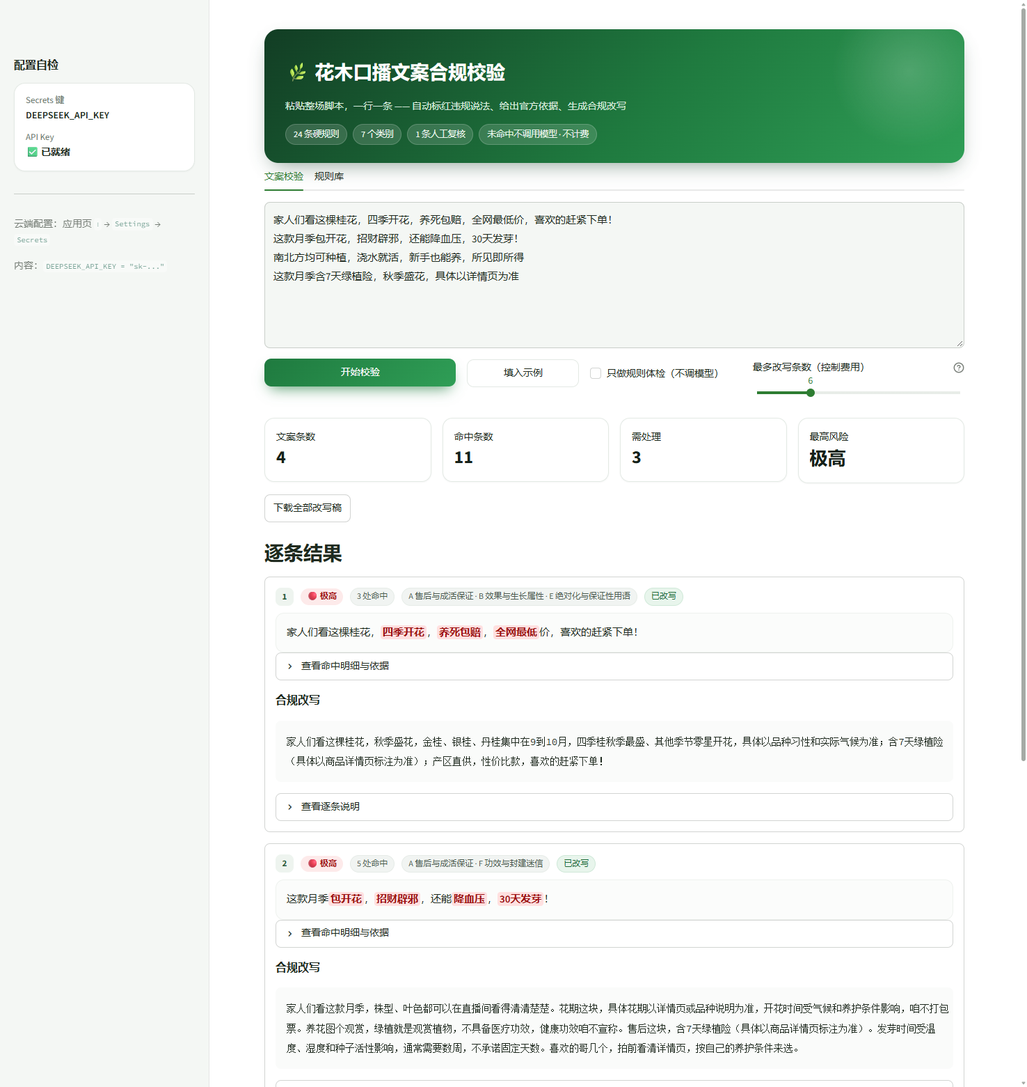
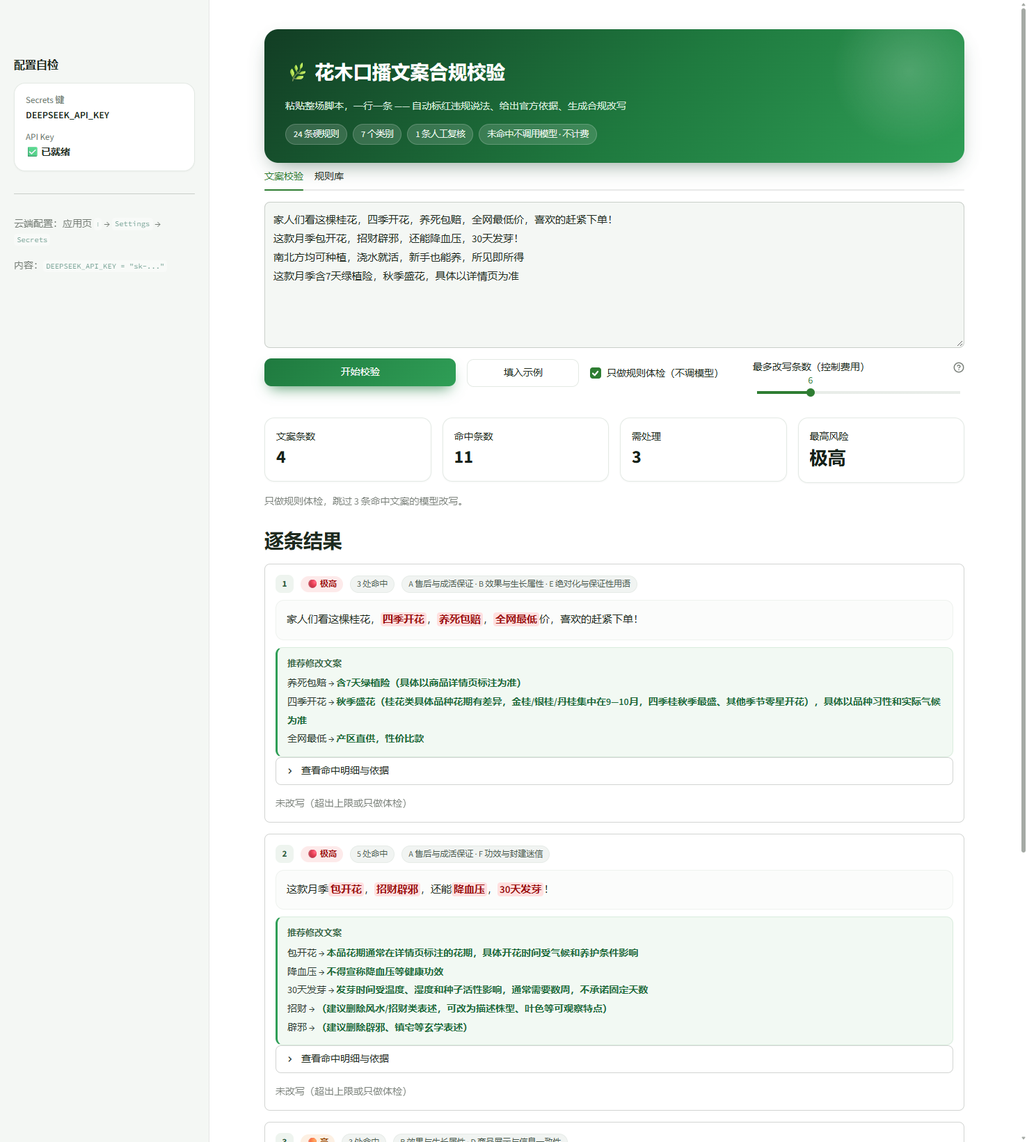
每条命中增加推荐修改文案（按替换表生成，含占位符填充）

diff --git a/docs/checker.html b/docs/checker.html
@@ -74,7 +74,7 @@
 </div>
 
 <script>
-const DATA = {"rules": [{"id": "R001", "category": "A", "pattern": "养死\\s*(包赔|包退|包活|补发|包开花|包结果|包发芽|包生根)", "risk": "极高", "reason": "平台仅认可“7天绿植险”权益，口播须与商品详情页明确标注的权益一致。宣传“养死包赔/包退/补发”但详情页未标注或超过7天的，属服务履约虚假。已有店铺被清退、扣除违约金20000元、冻结近90天货款的公示案例。", "source": "抖音《关于鲜花绿植商品服务虚假的专项治理公告》2026-09-02"}, {"id": "R002", "category": "A", "pattern": "冻坏\\s*(不赔|不售后|不负责|不管)", "risk": "极高", "reason": "合规指南明确严禁宣传“冻坏不赔/不售后”。低温地区应主动增加保温棉发货，不得以“不拍保温棉冻坏不赔”作为售后免责依据。", "source": "抖音电商鲜花绿植行业合规指南 2026-01-28"}, {"id": "R003", "category": "A", "pattern": "包\\s*(活|成活|全活|发芽|出苗|开花|结果|生根|挂果)", "risk": "极高", "reason": "直播间对出苗率、发芽率、成活率、包开花、包活等做保证性承诺，属于对活体商品做无法量化的绝对化保证，是鲜花园艺类目最高频的违规类型之一。", "source": "抖音《关于鲜花绿植宣传与经营规范专项治理公告》2026-04-30 / 鲜花园艺直播红黑榜"}, {"id": "R004", "category": "A", "pattern": "\\d+\\s*(天|个月|周|星期).{0,6}(发芽|开花|结果|成活|死|枯萎|见效|挂果|生根)", "risk": "高", "reason": "宣传“X天发芽”“X天开花”“30天包活”等具体时间承诺，属于对种植结果做不可验证的保证性断言。植物生长受气候、土壤、养护影响，无法在售卖时对固定天数做承诺。", "source": "抖音专项治理公告 2026-04-30 / 绿植鲜花违禁词速查"}, {"id": "R005", "category": "B", "pattern": "(四季|全年|三季)\\s*(开花|挂果|常绿|有花|有果|开花不断)", "risk": "高", "reason": "花期/挂果周期必须与品种真实习性一致。玉兰实际一季开花，宣传“四季开花”即构成效果虚假。桂花中仅四季桂可“秋季最盛、其他季节零星开花”，金桂/银桂/丹桂花期集中在秋季9—10月。月季宣传“全年320天开花”也被官方规范明确列为夸大植物习性。", "source": "抖音专项治理公告 2026-04-30（效果虚假）/ 抖音电商农资绿植行业管理规范"}, {"id": "R006", "category": "B", "pattern": "(浇水就活|沾土就活|放养就能活|怎么养都死不了|不用管就能活|随便养都活|随便种都能活)", "risk": "高", "reason": "种植难度必须如实告知。大棚苗、嫁接苗仍需基本养护，宣传“浇水就活”属于对种植难易程度的虚假描述，官方要求“如实宣传种植养护难度，对死亡风险、养殖环境做好充分提示”。", "source": "抖音专项治理公告 2026-04-30（效果虚假—虚假宣传种植难度）"}, {"id": "R007", "category": "B", "pattern": "(南北方均可种植|全国可种植|哪里都能种|到处都能种|全国可种|南北方均可种)", "risk": "高", "reason": "部分花木品种受温度、土壤条件限制，并非所有地区都适宜。抖音公告明确禁止以“全国可种植”“南北方均可种植”等保证性、暗示性宣传夸大实际情况。", "source": "抖音专项治理公告 2026-04-30（品种产地虚假—虚假宣传可种植地区）"}, {"id": "R008", "category": "B", "pattern": "(永不凋谢|花期最长|全年开花不断|花开不断|一直开花|永不枯萎)", "risk": "中", "reason": "“永不凋谢”“花期最长”属于无法验证的极致化表述，鲜花园艺直播红黑榜将其列为“绝对化/夸大”高危话术。鲜切花和活体植物的花期均有自然极限。", "source": "鲜花园艺直播红黑榜 2026-06-20"}, {"id": "R009", "category": "C", "pattern": "(五彩月季|红粉蓝莓|中国红玉兰|郁金香玉兰|牡丹玉兰|七彩(月季|玫瑰|茶花|杜鹃|草莓)|纯蓝色(玫瑰|火龙果)|蓝色(火龙果|西瓜)|绿色(草莓|玫瑰)|蓝桂苗)", "risk": "极高", "reason": "上述品种均为抖音公告中明确列出的“不存在的虚构品种”案例。平台禁止虚构自然界不存在的物种或品种，要求准确宣传苗木的标准官方品种名。使用AI生成或自行编造的品种名，同样属于虚构品种。", "source": "抖音专项治理公告 2026-04-30（品种产地虚假—虚构品种）/ 2026-09-02 / 鲜花园艺行业禁售商品细则"}, {"id": "R010", "category": "C", "pattern": "(进口品种|进口苗木|原装进口|国外原种|进口原种)", "risk": "中", "reason": "宣称“进口品种/进口苗木”属于需要提供真实来源证明的资质类表述。无实际进口凭证却宣传进口，构成对品种来源的虚假描述。", "source": "鲜花园艺直播红黑榜 2026-06-20"}, {"id": "R011", "category": "C", "pattern": "(扦插|嫁接).{0,20}(种子|播种)|(种子|播种).{0,20}(扦插|嫁接)", "risk": "高", "reason": "部分物种依靠扦插/嫁接繁殖，宣传以通过种子播种种植，需如实宣传植物繁育方式，不胡乱宣传、刻意隐瞒。", "source": "抖音专项治理公告 2026-04-30（品种产地虚假）"}, {"id": "R012", "category": "C", "pattern": "(自花授粉|无需授粉|单株结果).{0,20}(无需|不用|不需要).{0,10}(授粉|配树)|(异花授粉).{0,20}(自花授粉|单株结果)", "risk": "高", "reason": "部分品种授粉方式是异花授粉，虚假宣传为自花授粉，导致消费者单株种植后无法正常结果。", "source": "抖音专项治理公告 2026-04-30（品种产地虚假）"}, {"id": "R013", "category": "D", "pattern": "(主图|详情页|讲解|展示).{0,20}(成熟|长成|成品).{0,10}(树|苗|株)|(成熟株|成熟苗).{0,10}(替代|代替).{0,10}(发货|种苗)", "risk": "高", "reason": "商品主图/详情页展示为成熟树苗，但实际发货为种苗；直播和视频讲解仅可讲解实际发货种苗，避免用成熟苗情讲解。", "source": "抖音专项治理公告 2026-04-30（商品信息不规范）"}, {"id": "R014", "category": "D", "pattern": "(AI|P图|合成|修图).{0,20}(果实密度|枝叶|开花|果实|花苞)|(不符合|超出).{0,10}(物种|品种).{0,10}(生长规律|特性|实际)", "risk": "高", "reason": "禁止使用AI技术/P图制作不符合物种本身生长规律的果实密度/枝叶宣传，可能产生引人误解的营销推广行为。AI生成内容需与实际商品信息一致，并进行人工确认。", "source": "抖音《关于鲜花绿植宣传与经营规范专项治理公告》2026-04-30"}, {"id": "R015", "category": "D", "pattern": "(胶水|铁丝|绑|固定|拼接|插).{0,10}(果子|花朵|花苞|果实)", "risk": "高", "reason": "通过用胶水铁丝绑果子等仿真样品方式，虚构植物真实形态，拉高用户预期。", "source": "抖音专项治理公告 2026-04-30（商品信息不规范）"}, {"id": "R016", "category": "D", "pattern": "(苗数|花剑|花朵开放|发货苗情|植株数量).{0,10}(不一致|不符|差异|夸大|虚标)", "risk": "高", "reason": "鲜花绿植植株苗数、花剑数量、花朵开放状态、发货苗情与商品详情描述存在明显差异，属于虚假夸大商品。", "source": "抖音《关于鲜花绿植商品宣传不符专项治理公告》2026-09-01"}, {"id": "R018", "category": "D", "pattern": "(遇水开花|AI.{0,10}开花|图片.{0,10}开花).{0,20}(实际|发货|收到).{0,10}(树枝|干枝|不开花|难开花)", "risk": "高", "reason": "使用AI技术制作精美的开花图片宣传“遇水开花”，实际发货的是树枝，消费者养护多日也难以开花，涉嫌虚假宣传。", "source": "抖音专项治理公告 2026-04-30（商品信息不规范）"}, {"id": "R019", "category": "D", "pattern": "(非专拍|非一物一拍).{0,10}(一物一拍|专属|定制)|(一物一拍|定制专属|专属商品).{0,20}(手机尾号|填写|指定)", "risk": "高", "reason": "带货非专拍、非一物一拍商品，通过填写用户手机尾号等形式宣称商品为“定制专属商品”，虚构一物一拍误导用户。", "source": "抖音专项治理公告 2026-04-30（商品信息不规范）"}, {"id": "R020", "category": "D", "pattern": "(所见即所得|收到和直播间一模一样|实物与展示完全一致|完全一样|零差异)", "risk": "中", "reason": "非专拍、非一物一拍形式带货鲜花绿植，使用“实物与展示完全一致”“收到和直播间一模一样”“所见即所得”等承诺保证类宣传，易误导消费者心理预期。", "source": "绿植鲜花违禁词速查 2026-04-21 / 抖音鲜花园艺宣传规范"}, {"id": "R021", "category": "E", "pattern": "(全网最低|史上最低|最便宜|最低价|最好|最佳|最优|最强|第一|顶级|唯一|独家|首选|绝对|百分百|100%|保证)", "risk": "高", "reason": "绝对化用语在花木类目已有真实处罚。商家无法提供同期、同规格商品在主流电商平台及线下渠道的价格对比数据，却宣称“全网最低价”，被认定为对商品价格作引人误解的商业宣传。违禁词速查口诀：最、第一、顶级不能说；唯一、独家、首选不能吹；绝对、一定、保证不能承诺。", "source": "青州胜弛花卉苗木有限公司抖音直播间处罚案例（2026-07-09，同花顺公示）/ 绿植鲜花违禁词速查"}, {"id": "R022", "category": "F", "pattern": "(招财|辟邪|镇宅|化煞|转运|旺财|风水|开光|灵力|挡灾|消灾|旺事业|旺财运|化解小人|改运|招财进宝)", "risk": "中", "reason": "绿植花卉类目禁止宣传招财、辟邪、镇宅、风水、转运等封建迷信或玄学功效。此类表述无法科学验证，属于对商品功效的虚假或不当宣传。", "source": "绿植鲜花违禁词速查（抖音鲜花园艺类目）/ 2026年违禁词手册"}, {"id": "R023", "category": "F", "pattern": "(治疗|治愈|药用|入药|消炎|杀菌|降血压|降血糖|抗癌|防癌|保健|养生功效|医疗|药效)", "risk": "高", "reason": "绿植花卉不得宣称治疗、药用、保健等医疗或健康功效。“药用/食用功效”已被鲜花园艺直播明确列为“不宣称”的红线。非药品、非保健食品宣称功效，同时违反广告法和平台规则。", "source": "鲜花园艺直播红黑榜 2026-06-20 / 抖音违禁词手册"}, {"id": "R024", "category": "G", "pattern": "(榴莲苗|蓝莓籽种|七彩草莓|纯蓝色玫瑰|蓝色火龙果|绿色草莓|七彩茶花|蓝桂苗|银冠玉|乌羽玉|鸡枞菌菌种|野生(兰花|石斛|杜鹃|茶花))", "risk": "极高", "reason": "鲜花园艺行业特殊禁售品包括：七彩草莓种子/苗、纯蓝色玫瑰种子/苗、蓝色火龙果种子/苗、绿色草莓种子/苗、七彩玫瑰种子/苗、蓝桂苗、银冠玉/乌羽玉等保护性或有毒植物、任何野生商品、鸡枞菌菌种、榴莲苗、蓝莓籽种。禁止以寄养方式销售鲜花绿植。", "source": "《〖鲜花园艺〗行业禁售商品细则》"}, {"id": "R025", "category": "G", "pattern": "(百草枯|高毒农药|中高毒农药|瘦肉精|兽用处方药|限制使用农药)", "risk": "极高", "reason": "禁止销售国家禁售农药、中高毒农药及限制使用农药、百草枯等高风险农药；禁止销售国家公示查处的兽药、兽用处方药及原材料、瘦肉精等。", "source": "《〖鲜花园艺〗行业禁售商品细则》/ 抖音电商禁售商品管理规则"}], "categories": {"A": "售后与成活保证", "B": "效果与生长属性", "C": "品种与来源", "D": "商品展示与信息一致性", "E": "绝对化与保证性用语", "F": "功效与封建迷信", "G": "禁售品种与特殊品类"}, "replacements": {"A_售后与成活保证": {"养死包赔": "含7天绿植险（具体以商品详情页标注为准）", "养死包退": "含7天绿植险，签收后7天内枯萎死亡可申请售后（以详情页权益为准）", "养死补发": "含7天绿植险，符合条件可申请补发（以详情页权益为准）", "包活": "提供7天绿植险保障（如商品详情页已明确标注）", "包成活": "提供7天绿植险保障（如商品详情页已明确标注）", "包全活": "提供7天绿植险保障（如商品详情页已明确标注）", "包发芽": "种苗状态与发芽情况受温度、湿度影响，具体以实际养护为准", "包出苗": "出苗情况受种子活性与养护条件影响，不承诺出苗率", "包开花": "本品花期通常在{品种真实花期}，具体开花时间受气候和养护条件影响", "包结果": "本品挂果周期通常为{品种真实挂果期}，具体以实际生长情况为准", "包生根": "生根情况受温度、湿度和枝条状态影响，具体以实际养护为准", "包挂果": "挂果情况受气候与授粉条件影响，具体以实际生长为准", "冻坏不赔": "低温地区建议加拍保温棉，我们尽力做好防冻包装，具体售后以平台规则和详情页权益为准", "冻坏不售后": "已为低温地区加强防冻包装，收到后如有问题请及时联系客服处理", "冻死不赔": "低温地区建议加拍保温棉，我们尽力做好防冻包装，具体售后以平台规则和详情页权益为准", "冻伤不管": "已为低温地区加强防冻包装，收到后如有问题请及时联系客服处理", "30天发芽": "发芽时间受温度、湿度和种子活性影响，通常需要数周，不承诺固定天数", "30天开花": "花期受品种、气候和养护条件影响，无法保证固定天数", "7天见效": "植物生长有自然周期，不使用“见效”类承诺，具体表现以实际养护为准", "当月开花": "花期由品种习性和气候决定，具体开花时间以实际养护为准"}, "B_效果与生长属性": {"四季开花": "秋季盛花（桂花类具体品种花期有差异，金桂/银桂/丹桂集中在9—10月，四季桂秋季最盛、其他季节零星开花），具体以品种习性和实际气候为准", "全年挂果": "挂果期通常为{品种真实挂果期}，具体受气候和养护条件影响", "一年三季开花": "花期主要集中在{品种真实花期}，具体开花表现因品种和地域气候而异", "永不凋谢": "鲜切花与活体植物均有自然花期，无法永不凋谢；实际观赏期受品种和养护影响", "花期最长": "花期长短因品种而异，不使用“最长”类比较表述", "花开不断": "花期有自然间歇，具体开花表现以品种习性和气候为准", "一直开花": "花期有自然间歇，具体开花表现以品种习性和气候为准", "永不枯萎": "植物为活体，需正常养护，不承诺永不枯萎", "百日红全年开花": "紫薇花期通常为6—9月，可持续开放约百日，故名“百日红”，并非全年开花", "月季全年320天开花": "月季在适宜条件下花期较长，但具体开花天数受品种、气候和养护影响，无法保证固定天数", "玉兰四季开花": "玉兰花期通常为一季（春季），具体盛花期因品种和当地气候略有差异", "南北方均可种植": "适宜种植区域请参考品种习性，建议根据当地气候条件判断，具体可咨询客服确认", "全国可种植": "本品在适宜气候和土壤条件下生长良好，建议种植前确认当地环境是否匹配", "哪里都能种": "适宜种植区域请参考品种习性，建议种植前确认当地环境是否匹配", "浇水就活": "收到后请按养护说明进行缓苗和日常管理，具体养护要点可查看详情页或咨询客服", "沾土就活": "种植后需要适当的缓苗期和基础养护，建议参照随货养护指南操作", "放养就能活": "日常需保证基本的光照和水分管理，具体养护要求因品种而异", "随便种都能活": "不同品种对光照、水分要求不同，建议按养护说明管理"}, "C_品种与来源": {"五彩月季": "该品种名不存在，请改用真实品种名（如“月季”及具体花色），不可虚构品种", "红粉蓝莓": "该品种名不存在，请如实标注实际蓝莓品种名", "中国红玉兰": "规范品种名为“二乔玉兰”（或实际品种名），不可虚构品种名", "牡丹玉兰": "规范品种名为“二乔玉兰”或实际品种名，不可虚构品种名称", "郁金香玉兰": "该品种名不存在，请使用规范品种名", "七彩月季": "该品种不存在，请改用真实月季品种名", "纯蓝色玫瑰": "自然界不存在纯蓝色玫瑰，该商品属虚构品种", "蓝色火龙果": "该品种不存在，请改用真实品种名", "绿色草莓": "该品种不存在，请改用真实品种名", "蓝桂苗": "该品种不存在，请改用真实品种名", "进口品种": "如无进口凭证，请删除“进口”表述，如实标注苗木产地", "进口苗木": "如无进口凭证，请删除“进口”表述，如实标注苗木产地", "扦插苗也可以播种": "请如实说明繁育方式（扦插 / 嫁接 / 播种），不要混淆", "自花授粉无需配树": "该品种授粉方式请如实说明；需要配授粉树时必须明确告知"}, "D_商品展示与信息一致性": {"主图展示成熟大树": "直播间与详情页展示的均为实际发货的种苗规格，不以成熟大树代替", "AI合成图": "直播间与详情页图片为实拍，不使用 AI 合成或修图夸大果实密度、枝叶和花苞", "胶水绑果子": "所售为自然生长的活体苗木，不做人工绑扎、拼接、插花", "苗数不一致": "实际发货苗数、花剑数量、花朵开放状态以详情页标注为准", "遇水开花": "干枝类需按养护说明泡水养护，能否开花受枝条状态和养护条件影响，不承诺必开花", "一物一拍手机尾号": "本商品为批量发货，非一物一拍，具体规格以详情页为准", "所见即所得": "实物为自然生长的活体，个体存在差异，具体以收到的实物为准", "完全一样": "实物为自然生长的活体，个体存在差异，具体以收到的实物为准"}, "E_绝对化与保证性用语": {"全网最低": "产区直供，性价比款", "史上最低": "本期活动价，具体以商品页价格为准", "最便宜": "价格实惠，具体可对比详情页规格", "最低价": "价格实惠，具体可对比详情页规格", "最好": "（建议删除“最好”，改为具体可验证的品种优势）", "最佳": "（建议删除“最佳”，改为具体可验证的品种优势）", "最优": "（建议删除“最优”，陈述具体特点）", "最强": "（建议删除“最强”，陈述具体特点）", "第一": "产区口碑款（如有真实依据可具体说明，否则删除“第一”表述）", "绝对": "（建议删除“绝对”，直接陈述具体事实）", "保证": "（建议删除“保证”，改为“在正常养护条件下通常…”）", "百分百": "（建议删除保证性表述，改为“在正常养护条件下通常可达到…”）", "100%": "（同上，删除保证性数字，改为客观描述）", "唯一": "（建议删除“唯一”，陈述具体特点）", "独家": "（建议删除“独家”，陈述具体特点）", "顶级": "（建议删除“顶级”，陈述具体特点）"}, "F_功效与封建迷信": {"招财": "（建议删除风水/招财类表述，可改为描述株型、叶色等可观察特点）", "辟邪": "（建议删除辟邪、镇宅等玄学表述）", "镇宅": "（建议删除镇宅类表述）", "转运": "（建议删除转运、改运类表述，不作任何功效承诺）", "风水": "（建议删除风水类表述）", "开光": "（建议删除开光等迷信表述）", "治疗": "绿植为观赏植物，不具备医疗功效，请删除治疗类表述", "治愈": "绿植为观赏植物，不具备医疗功效，请删除治愈类表述", "药用": "绿植为观赏植物，请勿宣称药用价值", "入药": "绿植为观赏植物，请勿宣称入药功效", "降血压": "不得宣称降血压等健康功效", "抗癌": "不得宣称抗癌、防癌等医疗功效", "保健": "不得宣称保健功效", "杀菌": "不得宣称杀菌、消炎等功效"}, "G_禁售品种与特殊品类": {"榴莲苗": "该商品属平台禁售品类，不能上架销售", "蓝莓籽种": "该商品属平台禁售品类，不能上架销售", "七彩草莓": "该品种不存在且属禁售，不能上架销售", "蓝桂苗": "该品种不存在且属禁售，不能上架销售", "银冠玉": "该品种属保护性植物，平台禁售", "乌羽玉": "该品种属保护性植物，平台禁售", "鸡枞菌菌种": "该商品属平台禁售品类，不能上架销售", "野生兰花": "任何野生商品均禁止销售，请下架", "百草枯": "国家禁售农药，禁止销售", "高毒农药": "中高毒农药禁止销售，请下架", "瘦肉精": "国家明令禁止，禁止销售"}}};
+const DATA = {"rules": [{"id": "R001", "category": "A", "pattern": "养死\\s*(包赔|包退|包活|补发|包开花|包结果|包发芽|包生根)", "risk": "极高", "reason": "平台仅认可“7天绿植险”权益，口播须与商品详情页明确标注的权益一致。宣传“养死包赔/包退/补发”但详情页未标注或超过7天的，属服务履约虚假。已有店铺被清退、扣除违约金20000元、冻结近90天货款的公示案例。", "source": "抖音《关于鲜花绿植商品服务虚假的专项治理公告》2026-09-02"}, {"id": "R002", "category": "A", "pattern": "冻坏\\s*(不赔|不售后|不负责|不管)", "risk": "极高", "reason": "合规指南明确严禁宣传“冻坏不赔/不售后”。低温地区应主动增加保温棉发货，不得以“不拍保温棉冻坏不赔”作为售后免责依据。", "source": "抖音电商鲜花绿植行业合规指南 2026-01-28"}, {"id": "R003", "category": "A", "pattern": "包\\s*(活|成活|全活|发芽|出苗|开花|结果|生根|挂果)", "risk": "极高", "reason": "直播间对出苗率、发芽率、成活率、包开花、包活等做保证性承诺，属于对活体商品做无法量化的绝对化保证，是鲜花园艺类目最高频的违规类型之一。", "source": "抖音《关于鲜花绿植宣传与经营规范专项治理公告》2026-04-30 / 鲜花园艺直播红黑榜"}, {"id": "R004", "category": "A", "pattern": "\\d+\\s*(天|个月|周|星期).{0,6}(发芽|开花|结果|成活|死|枯萎|见效|挂果|生根)", "risk": "高", "reason": "宣传“X天发芽”“X天开花”“30天包活”等具体时间承诺，属于对种植结果做不可验证的保证性断言。植物生长受气候、土壤、养护影响，无法在售卖时对固定天数做承诺。", "source": "抖音专项治理公告 2026-04-30 / 绿植鲜花违禁词速查"}, {"id": "R005", "category": "B", "pattern": "(四季|全年|三季)\\s*(开花|挂果|常绿|有花|有果|开花不断)", "risk": "高", "reason": "花期/挂果周期必须与品种真实习性一致。玉兰实际一季开花，宣传“四季开花”即构成效果虚假。桂花中仅四季桂可“秋季最盛、其他季节零星开花”，金桂/银桂/丹桂花期集中在秋季9—10月。月季宣传“全年320天开花”也被官方规范明确列为夸大植物习性。", "source": "抖音专项治理公告 2026-04-30（效果虚假）/ 抖音电商农资绿植行业管理规范"}, {"id": "R006", "category": "B", "pattern": "(浇水就活|沾土就活|放养就能活|怎么养都死不了|不用管就能活|随便养都活|随便种都能活)", "risk": "高", "reason": "种植难度必须如实告知。大棚苗、嫁接苗仍需基本养护，宣传“浇水就活”属于对种植难易程度的虚假描述，官方要求“如实宣传种植养护难度，对死亡风险、养殖环境做好充分提示”。", "source": "抖音专项治理公告 2026-04-30（效果虚假—虚假宣传种植难度）"}, {"id": "R007", "category": "B", "pattern": "(南北方均可种植|全国可种植|哪里都能种|到处都能种|全国可种|南北方均可种)", "risk": "高", "reason": "部分花木品种受温度、土壤条件限制，并非所有地区都适宜。抖音公告明确禁止以“全国可种植”“南北方均可种植”等保证性、暗示性宣传夸大实际情况。", "source": "抖音专项治理公告 2026-04-30（品种产地虚假—虚假宣传可种植地区）"}, {"id": "R008", "category": "B", "pattern": "(永不凋谢|花期最长|全年开花不断|花开不断|一直开花|永不枯萎)", "risk": "中", "reason": "“永不凋谢”“花期最长”属于无法验证的极致化表述，鲜花园艺直播红黑榜将其列为“绝对化/夸大”高危话术。鲜切花和活体植物的花期均有自然极限。", "source": "鲜花园艺直播红黑榜 2026-06-20"}, {"id": "R009", "category": "C", "pattern": "(五彩月季|红粉蓝莓|中国红玉兰|郁金香玉兰|牡丹玉兰|七彩(月季|玫瑰|茶花|杜鹃|草莓)|纯蓝色(玫瑰|火龙果)|蓝色(火龙果|西瓜)|绿色(草莓|玫瑰)|蓝桂苗)", "risk": "极高", "reason": "上述品种均为抖音公告中明确列出的“不存在的虚构品种”案例。平台禁止虚构自然界不存在的物种或品种，要求准确宣传苗木的标准官方品种名。使用AI生成或自行编造的品种名，同样属于虚构品种。", "source": "抖音专项治理公告 2026-04-30（品种产地虚假—虚构品种）/ 2026-09-02 / 鲜花园艺行业禁售商品细则"}, {"id": "R010", "category": "C", "pattern": "(进口品种|进口苗木|原装进口|国外原种|进口原种)", "risk": "中", "reason": "宣称“进口品种/进口苗木”属于需要提供真实来源证明的资质类表述。无实际进口凭证却宣传进口，构成对品种来源的虚假描述。", "source": "鲜花园艺直播红黑榜 2026-06-20"}, {"id": "R011", "category": "C", "pattern": "(扦插|嫁接).{0,20}(种子|播种)|(种子|播种).{0,20}(扦插|嫁接)", "risk": "高", "reason": "部分物种依靠扦插/嫁接繁殖，宣传以通过种子播种种植，需如实宣传植物繁育方式，不胡乱宣传、刻意隐瞒。", "source": "抖音专项治理公告 2026-04-30（品种产地虚假）"}, {"id": "R012", "category": "C", "pattern": "(自花授粉|无需授粉|单株结果).{0,20}(无需|不用|不需要).{0,10}(授粉|配树)|(异花授粉).{0,20}(自花授粉|单株结果)", "risk": "高", "reason": "部分品种授粉方式是异花授粉，虚假宣传为自花授粉，导致消费者单株种植后无法正常结果。", "source": "抖音专项治理公告 2026-04-30（品种产地虚假）"}, {"id": "R013", "category": "D", "pattern": "(主图|详情页|讲解|展示).{0,20}(成熟|长成|成品).{0,10}(树|苗|株)|(成熟株|成熟苗).{0,10}(替代|代替).{0,10}(发货|种苗)", "risk": "高", "reason": "商品主图/详情页展示为成熟树苗，但实际发货为种苗；直播和视频讲解仅可讲解实际发货种苗，避免用成熟苗情讲解。", "source": "抖音专项治理公告 2026-04-30（商品信息不规范）"}, {"id": "R014", "category": "D", "pattern": "(AI|P图|合成|修图).{0,20}(果实密度|枝叶|开花|果实|花苞)|(不符合|超出).{0,10}(物种|品种).{0,10}(生长规律|特性|实际)", "risk": "高", "reason": "禁止使用AI技术/P图制作不符合物种本身生长规律的果实密度/枝叶宣传，可能产生引人误解的营销推广行为。AI生成内容需与实际商品信息一致，并进行人工确认。", "source": "抖音《关于鲜花绿植宣传与经营规范专项治理公告》2026-04-30"}, {"id": "R015", "category": "D", "pattern": "(胶水|铁丝|绑|固定|拼接|插).{0,10}(果子|花朵|花苞|果实)", "risk": "高", "reason": "通过用胶水铁丝绑果子等仿真样品方式，虚构植物真实形态，拉高用户预期。", "source": "抖音专项治理公告 2026-04-30（商品信息不规范）"}, {"id": "R016", "category": "D", "pattern": "(苗数|花剑|花朵开放|发货苗情|植株数量).{0,10}(不一致|不符|差异|夸大|虚标)", "risk": "高", "reason": "鲜花绿植植株苗数、花剑数量、花朵开放状态、发货苗情与商品详情描述存在明显差异，属于虚假夸大商品。", "source": "抖音《关于鲜花绿植商品宣传不符专项治理公告》2026-09-01"}, {"id": "R018", "category": "D", "pattern": "(遇水开花|AI.{0,10}开花|图片.{0,10}开花).{0,20}(实际|发货|收到).{0,10}(树枝|干枝|不开花|难开花)", "risk": "高", "reason": "使用AI技术制作精美的开花图片宣传“遇水开花”，实际发货的是树枝，消费者养护多日也难以开花，涉嫌虚假宣传。", "source": "抖音专项治理公告 2026-04-30（商品信息不规范）"}, {"id": "R019", "category": "D", "pattern": "(非专拍|非一物一拍).{0,10}(一物一拍|专属|定制)|(一物一拍|定制专属|专属商品).{0,20}(手机尾号|填写|指定)", "risk": "高", "reason": "带货非专拍、非一物一拍商品，通过填写用户手机尾号等形式宣称商品为“定制专属商品”，虚构一物一拍误导用户。", "source": "抖音专项治理公告 2026-04-30（商品信息不规范）"}, {"id": "R020", "category": "D", "pattern": "(所见即所得|收到和直播间一模一样|实物与展示完全一致|完全一样|零差异)", "risk": "中", "reason": "非专拍、非一物一拍形式带货鲜花绿植，使用“实物与展示完全一致”“收到和直播间一模一样”“所见即所得”等承诺保证类宣传，易误导消费者心理预期。", "source": "绿植鲜花违禁词速查 2026-04-21 / 抖音鲜花园艺宣传规范"}, {"id": "R021", "category": "E", "pattern": "(全网最低|史上最低|最便宜|最低价|最好|最佳|最优|最强|第一|顶级|唯一|独家|首选|绝对|百分百|100%|保证)", "risk": "高", "reason": "绝对化用语在花木类目已有真实处罚。商家无法提供同期、同规格商品在主流电商平台及线下渠道的价格对比数据，却宣称“全网最低价”，被认定为对商品价格作引人误解的商业宣传。违禁词速查口诀：最、第一、顶级不能说；唯一、独家、首选不能吹；绝对、一定、保证不能承诺。", "source": "青州胜弛花卉苗木有限公司抖音直播间处罚案例（2026-07-09，同花顺公示）/ 绿植鲜花违禁词速查"}, {"id": "R022", "category": "F", "pattern": "(招财|辟邪|镇宅|化煞|转运|旺财|风水|开光|灵力|挡灾|消灾|旺事业|旺财运|化解小人|改运|招财进宝)", "risk": "中", "reason": "绿植花卉类目禁止宣传招财、辟邪、镇宅、风水、转运等封建迷信或玄学功效。此类表述无法科学验证，属于对商品功效的虚假或不当宣传。", "source": "绿植鲜花违禁词速查（抖音鲜花园艺类目）/ 2026年违禁词手册"}, {"id": "R023", "category": "F", "pattern": "(治疗|治愈|药用|入药|消炎|杀菌|降血压|降血糖|抗癌|防癌|保健|养生功效|医疗|药效)", "risk": "高", "reason": "绿植花卉不得宣称治疗、药用、保健等医疗或健康功效。“药用/食用功效”已被鲜花园艺直播明确列为“不宣称”的红线。非药品、非保健食品宣称功效，同时违反广告法和平台规则。", "source": "鲜花园艺直播红黑榜 2026-06-20 / 抖音违禁词手册"}, {"id": "R024", "category": "G", "pattern": "(榴莲苗|蓝莓籽种|七彩草莓|纯蓝色玫瑰|蓝色火龙果|绿色草莓|七彩茶花|蓝桂苗|银冠玉|乌羽玉|鸡枞菌菌种|野生(兰花|石斛|杜鹃|茶花))", "risk": "极高", "reason": "鲜花园艺行业特殊禁售品包括：七彩草莓种子/苗、纯蓝色玫瑰种子/苗、蓝色火龙果种子/苗、绿色草莓种子/苗、七彩玫瑰种子/苗、蓝桂苗、银冠玉/乌羽玉等保护性或有毒植物、任何野生商品、鸡枞菌菌种、榴莲苗、蓝莓籽种。禁止以寄养方式销售鲜花绿植。", "source": "《〖鲜花园艺〗行业禁售商品细则》"}, {"id": "R025", "category": "G", "pattern": "(百草枯|高毒农药|中高毒农药|瘦肉精|兽用处方药|限制使用农药)", "risk": "极高", "reason": "禁止销售国家禁售农药、中高毒农药及限制使用农药、百草枯等高风险农药；禁止销售国家公示查处的兽药、兽用处方药及原材料、瘦肉精等。", "source": "《〖鲜花园艺〗行业禁售商品细则》/ 抖音电商禁售商品管理规则"}], "categories": {"A": "售后与成活保证", "B": "效果与生长属性", "C": "品种与来源", "D": "商品展示与信息一致性", "E": "绝对化与保证性用语", "F": "功效与封建迷信", "G": "禁售品种与特殊品类"}, "replacements": {"A_售后与成活保证": {"养死包赔": "含7天绿植险（具体以商品详情页标注为准）", "养死包退": "含7天绿植险，签收后7天内枯萎死亡可申请售后（以详情页权益为准）", "养死补发": "含7天绿植险，符合条件可申请补发（以详情页权益为准）", "包活": "提供7天绿植险保障（如商品详情页已明确标注）", "包成活": "提供7天绿植险保障（如商品详情页已明确标注）", "包全活": "提供7天绿植险保障（如商品详情页已明确标注）", "包发芽": "种苗状态与发芽情况受温度、湿度影响，具体以实际养护为准", "包出苗": "出苗情况受种子活性与养护条件影响，不承诺出苗率", "包开花": "本品花期通常在详情页标注的信息，具体开花时间受气候和养护条件影响", "包结果": "本品挂果周期通常为详情页标注的信息，具体以实际生长情况为准", "包生根": "生根情况受温度、湿度和枝条状态影响，具体以实际养护为准", "包挂果": "挂果情况受气候与授粉条件影响，具体以实际生长为准", "冻坏不赔": "低温地区建议加拍保温棉，我们尽力做好防冻包装，具体售后以平台规则和详情页权益为准", "冻坏不售后": "已为低温地区加强防冻包装，收到后如有问题请及时联系客服处理", "冻死不赔": "低温地区建议加拍保温棉，我们尽力做好防冻包装，具体售后以平台规则和详情页权益为准", "冻伤不管": "已为低温地区加强防冻包装，收到后如有问题请及时联系客服处理", "30天发芽": "发芽时间受温度、湿度和种子活性影响，通常需要数周，不承诺固定天数", "30天开花": "花期受品种、气候和养护条件影响，无法保证固定天数", "7天见效": "植物生长有自然周期，不使用“见效”类承诺，具体表现以实际养护为准", "当月开花": "花期由品种习性和气候决定，具体开花时间以实际养护为准"}, "B_效果与生长属性": {"四季开花": "秋季盛花（桂花类具体品种花期有差异，金桂/银桂/丹桂集中在9—10月，四季桂秋季最盛、其他季节零星开花），具体以品种习性和实际气候为准", "全年挂果": "挂果期通常为详情页标注的信息，具体受气候和养护条件影响", "一年三季开花": "花期主要集中在详情页标注的信息，具体开花表现因品种和地域气候而异", "永不凋谢": "鲜切花与活体植物均有自然花期，无法永不凋谢；实际观赏期受品种和养护影响", "花期最长": "花期长短因品种而异，不使用“最长”类比较表述", "花开不断": "花期有自然间歇，具体开花表现以品种习性和气候为准", "一直开花": "花期有自然间歇，具体开花表现以品种习性和气候为准", "永不枯萎": "植物为活体，需正常养护，不承诺永不枯萎", "百日红全年开花": "紫薇花期通常为6—9月，可持续开放约百日，故名“百日红”，并非全年开花", "月季全年320天开花": "月季在适宜条件下花期较长，但具体开花天数受品种、气候和养护影响，无法保证固定天数", "玉兰四季开花": "玉兰花期通常为一季（春季），具体盛花期因品种和当地气候略有差异", "南北方均可种植": "适宜种植区域请参考品种习性，建议根据当地气候条件判断，具体可咨询客服确认", "全国可种植": "本品在适宜气候和土壤条件下生长良好，建议种植前确认当地环境是否匹配", "哪里都能种": "适宜种植区域请参考品种习性，建议种植前确认当地环境是否匹配", "浇水就活": "收到后请按养护说明进行缓苗和日常管理，具体养护要点可查看详情页或咨询客服", "沾土就活": "种植后需要适当的缓苗期和基础养护，建议参照随货养护指南操作", "放养就能活": "日常需保证基本的光照和水分管理，具体养护要求因品种而异", "随便种都能活": "不同品种对光照、水分要求不同，建议按养护说明管理"}, "C_品种与来源": {"五彩月季": "该品种名不存在，请改用真实品种名（如“月季”及具体花色），不可虚构品种", "红粉蓝莓": "该品种名不存在，请如实标注实际蓝莓品种名", "中国红玉兰": "规范品种名为“二乔玉兰”（或实际品种名），不可虚构品种名", "牡丹玉兰": "规范品种名为“二乔玉兰”或实际品种名，不可虚构品种名称", "郁金香玉兰": "该品种名不存在，请使用规范品种名", "七彩月季": "该品种不存在，请改用真实月季品种名", "纯蓝色玫瑰": "自然界不存在纯蓝色玫瑰，该商品属虚构品种", "蓝色火龙果": "该品种不存在，请改用真实品种名", "绿色草莓": "该品种不存在，请改用真实品种名", "蓝桂苗": "该品种不存在，请改用真实品种名", "进口品种": "如无进口凭证，请删除“进口”表述，如实标注苗木产地", "进口苗木": "如无进口凭证，请删除“进口”表述，如实标注苗木产地", "扦插苗也可以播种": "请如实说明繁育方式（扦插 / 嫁接 / 播种），不要混淆", "自花授粉无需配树": "该品种授粉方式请如实说明；需要配授粉树时必须明确告知"}, "D_商品展示与信息一致性": {"主图展示成熟大树": "直播间与详情页展示的均为实际发货的种苗规格，不以成熟大树代替", "AI合成图": "直播间与详情页图片为实拍，不使用 AI 合成或修图夸大果实密度、枝叶和花苞", "胶水绑果子": "所售为自然生长的活体苗木，不做人工绑扎、拼接、插花", "苗数不一致": "实际发货苗数、花剑数量、花朵开放状态以详情页标注为准", "遇水开花": "干枝类需按养护说明泡水养护，能否开花受枝条状态和养护条件影响，不承诺必开花", "一物一拍手机尾号": "本商品为批量发货，非一物一拍，具体规格以详情页为准", "所见即所得": "实物为自然生长的活体，个体存在差异，具体以收到的实物为准", "完全一样": "实物为自然生长的活体，个体存在差异，具体以收到的实物为准"}, "E_绝对化与保证性用语": {"全网最低": "产区直供，性价比款", "史上最低": "本期活动价，具体以商品页价格为准", "最便宜": "价格实惠，具体可对比详情页规格", "最低价": "价格实惠，具体可对比详情页规格", "最好": "（建议删除“最好”，改为具体可验证的品种优势）", "最佳": "（建议删除“最佳”，改为具体可验证的品种优势）", "最优": "（建议删除“最优”，陈述具体特点）", "最强": "（建议删除“最强”，陈述具体特点）", "第一": "产区口碑款（如有真实依据可具体说明，否则删除“第一”表述）", "绝对": "（建议删除“绝对”，直接陈述具体事实）", "保证": "（建议删除“保证”，改为“在正常养护条件下通常…”）", "百分百": "（建议删除保证性表述，改为“在正常养护条件下通常可达到…”）", "100%": "（同上，删除保证性数字，改为客观描述）", "唯一": "（建议删除“唯一”，陈述具体特点）", "独家": "（建议删除“独家”，陈述具体特点）", "顶级": "（建议删除“顶级”，陈述具体特点）"}, "F_功效与封建迷信": {"招财": "（建议删除风水/招财类表述，可改为描述株型、叶色等可观察特点）", "辟邪": "（建议删除辟邪、镇宅等玄学表述）", "镇宅": "（建议删除镇宅类表述）", "转运": "（建议删除转运、改运类表述，不作任何功效承诺）", "风水": "（建议删除风水类表述）", "开光": "（建议删除开光等迷信表述）", "治疗": "绿植为观赏植物，不具备医疗功效，请删除治疗类表述", "治愈": "绿植为观赏植物，不具备医疗功效，请删除治愈类表述", "药用": "绿植为观赏植物，请勿宣称药用价值", "入药": "绿植为观赏植物，请勿宣称入药功效", "降血压": "不得宣称降血压等健康功效", "抗癌": "不得宣称抗癌、防癌等医疗功效", "保健": "不得宣称保健功效", "杀菌": "不得宣称杀菌、消炎等功效"}, "G_禁售品种与特殊品类": {"榴莲苗": "该商品属平台禁售品类，不能上架销售", "蓝莓籽种": "该商品属平台禁售品类，不能上架销售", "七彩草莓": "该品种不存在且属禁售，不能上架销售", "蓝桂苗": "该品种不存在且属禁售，不能上架销售", "银冠玉": "该品种属保护性植物，平台禁售", "乌羽玉": "该品种属保护性植物，平台禁售", "鸡枞菌菌种": "该商品属平台禁售品类，不能上架销售", "野生兰花": "任何野生商品均禁止销售，请下架", "百草枯": "国家禁售农药，禁止销售", "高毒农药": "中高毒农药禁止销售，请下架", "瘦肉精": "国家明令禁止，禁止销售"}}};
 const RISK_CLASS = {"极高":"very","高":"high","中":"mid","低":"mid"};
 const RISK_ORDER = {"极高":0,"高":1,"中":2,"低":3};
 const SAMPLE = "家人们看这棵桂花，四季开花，养死包赔，全网最低价，喜欢的赶紧下单！";

diff --git a/check.py b/check.py
@@ -187,8 +187,63 @@ def _snippet(text: str, start: int, end: int, width: int = 10) -> str:
     return f"{left}【{text[start:end]}】{right}"
 
 
-def lint(text: str, rules: list[dict[str, Any]] | None = None) -> list[dict[str, Any]]:
-    """扫一遍硬规则，返回命中列表（同一位置只报一次，按风险与位置排序）。"""
+PLACEHOLDER_FILL = {
+    "{品种真实花期}": "详情页标注的花期",
+    "{品种真实挂果期}": "详情页标注的挂果期",
+}
+
+
+def fill_placeholders(text: str) -> str:
+    """替换表里的占位符是给模型看的，直接展示给店员时要有可读的说法。"""
+    for key, val in PLACEHOLDER_FILL.items():
+        text = text.replace(key, val)
+    return re.sub(r"\{[^}]{1,20}\}", "详情页标注的信息", text)
+
+
+def suggest_replacement(
+    matched: str,
+    replacements: dict[str, dict[str, str]] | None = None,
+    category: str = "",
+) -> str | None:
+    """给一个命中片段找出推荐修改文案。
+
+    先精确匹配替换表的键，再退化为包含匹配（取最长的键，避免“包活”盖过“包成活”）。
+    优先在本类别对应的分组里找，找不到再扫其它分组。返回前把占位符换成可读说法。
+    """
+    replacements = replacements if replacements is not None else load_replacements()
+    group = group_name_for(category) if category else ""
+
+    ordered: list[dict[str, str]] = []
+    if group and isinstance(replacements.get(group), dict):
+        ordered.append(replacements[group])
+    ordered += [
+        v for k, v in replacements.items() if isinstance(v, dict) and k != group
+    ]
+
+    for grp in ordered:
+        if matched in grp:
+            return fill_placeholders(grp[matched])
+
+    best: tuple[str, str] | None = None
+    for grp in ordered:
+        for key, val in grp.items():
+            if len(key) < 2:
+                continue
+            if key in matched or matched in key:
+                if best is None or len(key) > len(best[0]):
+                    best = (key, val)
+    return fill_placeholders(best[1]) if best else None
+
+
+def lint(
+    text: str,
+    rules: list[dict[str, Any]] | None = None,
+    replacements: dict[str, dict[str, str]] | None = None,
+) -> list[dict[str, Any]]:
+    """扫一遍硬规则，返回命中列表（同一位置只报一次，按风险与位置排序）。
+
+    传了 replacements 时，每条命中会附带 suggestion（推荐修改文案）。
+    """
     rules = rules if rules is not None else load_rules()
     rules = [_compile_rule(r) for r in rules]
     hits: list[dict[str, Any]] = []
@@ -222,6 +277,11 @@ def lint(text: str, rules: list[dict[str, Any]] | None = None) -> list[dict[str,
                     "context": _snippet(text, span[0], span[1]),
                     "reason": rule["reason"],
                     "source": rule["source"],
+                    "suggestion": (
+                        suggest_replacement(matched, replacements, rule["category"])
+                        if replacements is not None
+                        else None
+                    ),
                 }
             )
 
@@ -403,7 +463,7 @@ def check(
 
     rules = rules if rules is not None else load_rules()
     replacements = replacements if replacements is not None else load_replacements()
-    hits = lint(text, rules)
+    hits = lint(text, rules, replacements)
 
     result: dict[str, Any] = {
         "text": text,
@@ -433,6 +493,8 @@ def _print_human(result: dict[str, Any]) -> None:
         print(f"  [{h['risk']}] {h['rule_id']}{cat_note}")
         print(f"       命中：{h['matched']}")
         print(f"       位置：{h['context']}")
+        if h.get("suggestion"):
+            print(f"       建议：{h['suggestion']}")
         print(f"       依据：{h['source']}")
 
     if not result["hits"]:
@@ -545,6 +607,24 @@ def _selftest() -> int:
     )
     failures += 0 if ok else 1
     print(f"{'PASS' if ok else 'FAIL'}  R017 只进人工清单、不参与自动命中  实际 {[m['rule_id'] for m in manual]}")
+
+    # 推荐修改文案：每条命中都要能给出替换建议（取不到时允许为空）
+    s_hits = lint("养死包赔，四季开花，全网最低价，包开花", rules, replacements)
+    got = {h["matched"]: h.get("suggestion") for h in s_hits}
+    ok = (
+        got.get("养死包赔", "").startswith("含7天绿植险")
+        and "秋季盛花" in got.get("四季开花", "")
+        and got.get("全网最低", "") == "产区直供，性价比款"
+        and got.get("包开花", "") != ""
+    )
+    failures += 0 if ok else 1
+    print(f"{'PASS' if ok else 'FAIL'}  每条命中都带推荐修改文案  实际 {got}")
+
+    # 不在替换表里的命中，建议必须是 None，不能瞎编
+    trick = [{"id": "TX", "pattern": "冷门说法", "risk": "中", "reason": "-", "source": "-"}]
+    ok = lint("一句冷门说法", trick, replacements)[0]["suggestion"] is None
+    failures += 0 if ok else 1
+    print(f"{'PASS' if ok else 'FAIL'}  替换表没有的说法不给建议（不编造）")
 
     # exclude 扩展：命中但含豁免词时不报
     custom = [{"id": "T1", "pattern": "第一", "risk": "高", "reason": "-", "source": "-", "exclude": ["第一次"]}]

diff --git a/app.py b/app.py
@@ -82,6 +82,15 @@ st.markdown(
   }
   mark{background:#ffe0e0; color:#9c1010; padding:0 3px; border-radius:4px; font-weight:600;}
 
+  .hm-sug-block{
+    margin-top:10px; background:#f2f9f3; border:1px solid #d9ecdd; border-left:3px solid #2f9e56;
+    border-radius:10px; padding:11px 14px; font-size:14px; line-height:1.9;
+  }
+  .hm-sug-title{font-size:12.5px; color:#3d6b4a; font-weight:700; margin-bottom:4px; letter-spacing:.5px;}
+  .hm-sug-row{color:#2c3d31;}
+  .hm-sug-row .from{color:#a31616; text-decoration:line-through; text-decoration-thickness:1px;}
+  .hm-sug-row .to{color:#1f6b39; font-weight:600;}
+
   div[data-testid="stMetric"]{
     background:var(--hm-card); border:1px solid var(--hm-line); border-radius:14px;
     padding:14px 16px; box-shadow:0 1px 2px rgba(16,24,18,.04);
@@ -270,7 +279,7 @@ with tab_check:
             key = get_api_key()
             items = []
             for idx, line in enumerate(lines, 1):
-                hits = core.lint(line, rules)
+                hits = core.lint(line, rules, replacements)
                 items.append(
                     {"idx": idx, "text": line, "hits": hits, "advice": None, "rewritten": False, "error": None}
                 )
@@ -395,6 +404,19 @@ with tab_check:
                         unsafe_allow_html=True,
                     )
 
+                    # 推荐修改文案：按替换表直接给，不依赖模型，秒出
+                    sugg = [(h["matched"], h["suggestion"]) for h in hits if h.get("suggestion")]
+                    if sugg:
+                        rows = "".join(
+                            f'<div class="hm-sug-row">{html.escape(src)} → '
+                            f'<span class="to">{html.escape(dst)}</span></div>'
+                            for src, dst in sugg
+                        )
+                        st.markdown(
+                            f'<div class="hm-sug-block"><div class="hm-sug-title">推荐修改文案</div>{rows}</div>',
+                            unsafe_allow_html=True,
+                        )
+
                     with st.expander("查看命中明细与依据"):
                         for h in hits:
                             cat = categories.get(h.get("category", ""), "")
@@ -403,6 +425,8 @@ with tab_check:
                                 f"命中「{h['matched']}」"
                             )
                             st.markdown(h["reason"])
+                            if h.get("suggestion"):
+                                st.success(f"建议改为：{h['suggestion']}")
                             st.caption(f"依据：{h['source']}")
                             st.divider()
 

diff --git a/build_static.py b/build_static.py
@@ -39,7 +39,11 @@ def main() -> None:
     ]
     # 去掉 _note 这类非映射字段（顶层说明是字符串，不是分组）
     groups = {
-        k: {kk: vv for kk, vv in v.items() if not kk.startswith("_")}
+        k: {
+            kk: re.sub(r"\{[^}]{1,20}\}", "详情页标注的信息", vv)
+            for kk, vv in v.items()
+            if not kk.startswith("_")
+        }
         for k, v in replacements.items()
         if isinstance(v, dict)
     }

diff --git a/test_app.py b/test_app.py
@@ -62,6 +62,7 @@ def run(use_ai: bool) -> int:
         f"metrics={metrics}",
     )
     report("出现逐条结果", "逐条结果" in _text_of(at.markdown))
+    report("出现推荐修改文案", "推荐修改文案" in _text_of(at.markdown))
     report("只体检时提示跳过改写", any("跳过" in str(c.value) for c in at.caption))
 
     # --- 4. 全合规 ---

diff --git a/README.md b/README.md
@@ -63,6 +63,16 @@ streamlit run app.py           # 打开 http://localhost:8501
   → 支持「只做规则体检」「最多改写条数」两个开关
 - **规则库**：25 条规则按 A–G 分类展示，R017 标「需人工复核」
 
+每张卡片在原文下面还有一块 **推荐修改文案**：按 `replacements.json` 直接给出
+「违规说法 → 合规说法」，不调用模型、毫秒级出结果。命令行里对应的是每条的「建议：」行。
+
+```
+养死包赔 → 含7天绿植险（具体以商品详情页标注为准）
+四季开花 → 秋季盛花（桂花类具体品种花期有差异……）
+```
+
+替换表里没有的说法**不会瞎给建议**（返回空），避免编出一句看似合规、实则没法用的话。
+
 几条设计取舍：
 
 - **并行改写**：最多 4 条同时调用模型，10 条稿子不会排队等到天荒地老
